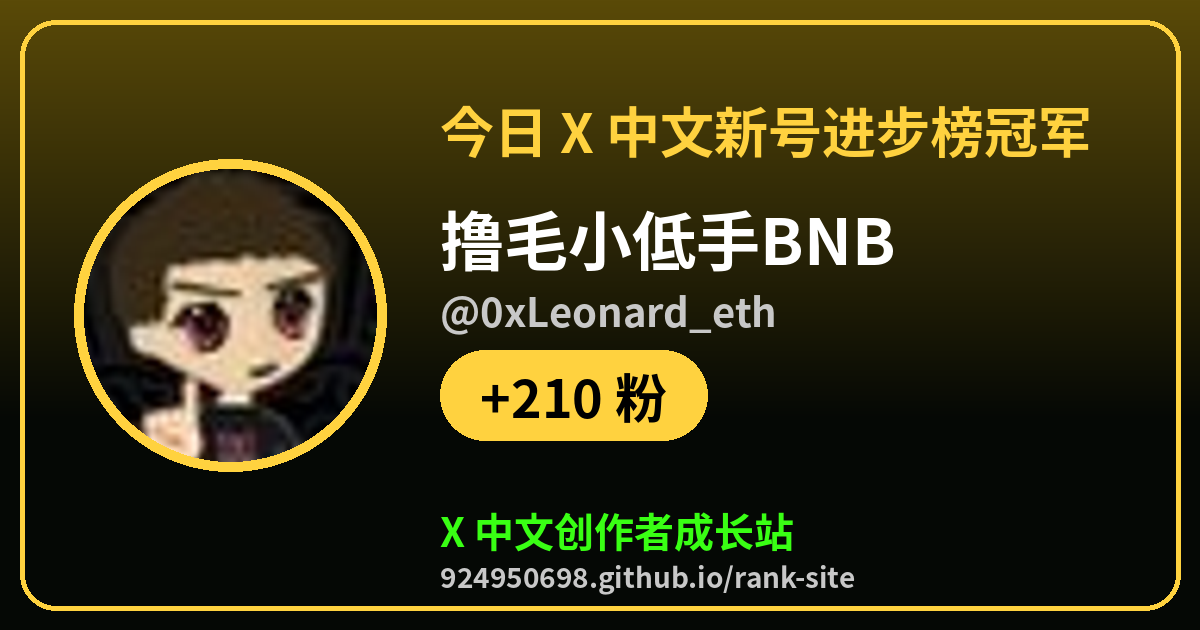
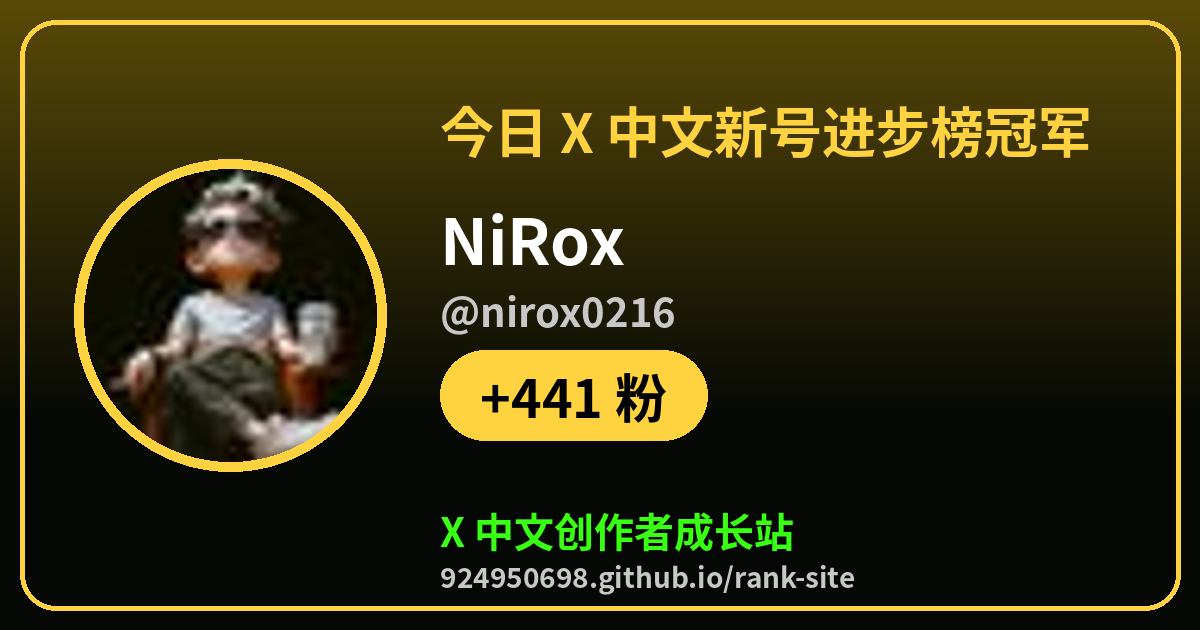
champ: 2026-10-18 00:21 CST

Changed region(s): [[0.0617, 0.2714, 0.3083, 0.754], [0.37, 0.3317, 0.74, 0.5429], [0.4008, 0.6032, 0.5242, 0.6635]]

diff --git a/champ/rising.html b/champ/rising.html
@@ -1,7 +1,7 @@
 <!doctype html><html lang="zh-CN"><head><meta charset="utf-8"><meta name="viewport" content="width=device-width,initial-scale=1">
-<title>今日 X 中文新号进步榜冠军：撸毛小低手🔸BNB（@0xLeonard_eth）</title><meta name="description" content="+210 粉，来看看今天谁在爆，你排第几">
-<meta property="og:type" content="website"><meta property="og:url" content="https://924950698.github.io/rank-site/champ/rising.html"><meta property="og:title" content="今日 X 中文新号进步榜冠军：撸毛小低手🔸BNB（@0xLeonard_eth）"><meta property="og:description" content="+210 粉，来看看今天谁在爆，你排第几">
-<meta property="og:image" content="https://924950698.github.io/rank-site/champ/rising.png?v=20261017T1511"><meta name="twitter:card" content="summary_large_image"><meta name="twitter:site" content="@tigerr3aue">
-<meta name="twitter:title" content="今日 X 中文新号进步榜冠军：撸毛小低手🔸BNB（@0xLeonard_eth）"><meta name="twitter:description" content="+210 粉，来看看今天谁在爆，你排第几"><meta name="twitter:image" content="https://924950698.github.io/rank-site/champ/rising.png?v=20261017T1511">
-<meta http-equiv="refresh" content="0;url=https://924950698.github.io/rank-site/?champ=0xLeonard_eth&amp;board=rising#rank"><script>location.replace("https://924950698.github.io/rank-site/?champ=0xLeonard_eth&board=rising#rank")</script></head>
-<body style="background:#000;color:#fff;font-family:sans-serif;text-align:center;padding:40px"><a href="https://924950698.github.io/rank-site/?champ=0xLeonard_eth&amp;board=rising#rank" style="color:#39ff14">去 X 中文创作者成长站看冠军卡片</a></body></html>
+<title>今日 X 中文新号进步榜冠军：NiRox（@nirox0216）</title><meta name="description" content="+441 粉，来看看今天谁在爆，你排第几">
+<meta property="og:type" content="website"><meta property="og:url" content="https://924950698.github.io/rank-site/champ/rising.html"><meta property="og:title" content="今日 X 中文新号进步榜冠军：NiRox（@nirox0216）"><meta property="og:description" content="+441 粉，来看看今天谁在爆，你排第几">
+<meta property="og:image" content="https://924950698.github.io/rank-site/champ/rising.png?v=20261017T1608"><meta name="twitter:card" content="summary_large_image"><meta name="twitter:site" content="@tigerr3aue">
+<meta name="twitter:title" content="今日 X 中文新号进步榜冠军：NiRox（@nirox0216）"><meta name="twitter:description" content="+441 粉，来看看今天谁在爆，你排第几"><meta name="twitter:image" content="https://924950698.github.io/rank-site/champ/rising.png?v=20261017T1608">
+<meta http-equiv="refresh" content="0;url=https://924950698.github.io/rank-site/?champ=nirox0216&amp;board=rising#rank"><script>location.replace("https://924950698.github.io/rank-site/?champ=nirox0216&board=rising#rank")</script></head>
+<body style="background:#000;color:#fff;font-family:sans-serif;text-align:center;padding:40px"><a href="https://924950698.github.io/rank-site/?champ=nirox0216&amp;board=rising#rank" style="color:#39ff14">去 X 中文创作者成长站看冠军卡片</a></body></html>

diff --git a/champ/comments.html b/champ/comments.html
@@ -1,7 +1,7 @@
 <!doctype html><html lang="zh-CN"><head><meta charset="utf-8"><meta name="viewport" content="width=device-width,initial-scale=1">
-<title>今日 X 中文评论榜冠军：鲁与班|Bird🕊（@luyuban69）</title><meta name="description" content="110 评论，来看看今天谁在爆，你排第几">
-<meta property="og:type" content="website"><meta property="og:url" content="https://924950698.github.io/rank-site/champ/comments.html"><meta property="og:title" content="今日 X 中文评论榜冠军：鲁与班|Bird🕊（@luyuban69）"><meta property="og:description" content="110 评论，来看看今天谁在爆，你排第几">
-<meta property="og:image" content="https://924950698.github.io/rank-site/champ/comments.png?v=20261017T1511"><meta name="twitter:card" content="summary_large_image"><meta name="twitter:site" content="@tigerr3aue">
-<meta name="twitter:title" content="今日 X 中文评论榜冠军：鲁与班|Bird🕊（@luyuban69）"><meta name="twitter:description" content="110 评论，来看看今天谁在爆，你排第几"><meta name="twitter:image" content="https://924950698.github.io/rank-site/champ/comments.png?v=20261017T1511">
+<title>今日 X 中文评论榜冠军：鲁与班|Bird🕊（@luyuban69）</title><meta name="description" content="112 评论，来看看今天谁在爆，你排第几">
+<meta property="og:type" content="website"><meta property="og:url" content="https://924950698.github.io/rank-site/champ/comments.html"><meta property="og:title" content="今日 X 中文评论榜冠军：鲁与班|Bird🕊（@luyuban69）"><meta property="og:description" content="112 评论，来看看今天谁在爆，你排第几">
+<meta property="og:image" content="https://924950698.github.io/rank-site/champ/comments.png?v=20261017T1608"><meta name="twitter:card" content="summary_large_image"><meta name="twitter:site" content="@tigerr3aue">
+<meta name="twitter:title" content="今日 X 中文评论榜冠军：鲁与班|Bird🕊（@luyuban69）"><meta name="twitter:description" content="112 评论，来看看今天谁在爆，你排第几"><meta name="twitter:image" content="https://924950698.github.io/rank-site/champ/comments.png?v=20261017T1608">
 <meta http-equiv="refresh" content="0;url=https://924950698.github.io/rank-site/?champ=luyuban69&amp;board=comments#rank"><script>location.replace("https://924950698.github.io/rank-site/?champ=luyuban69&board=comments#rank")</script></head>
 <body style="background:#000;color:#fff;font-family:sans-serif;text-align:center;padding:40px"><a href="https://924950698.github.io/rank-site/?champ=luyuban69&amp;board=comments#rank" style="color:#39ff14">去 X 中文创作者成长站看冠军卡片</a></body></html>

diff --git a/champ/growth.html b/champ/growth.html
@@ -1,7 +1,7 @@
 <!doctype html><html lang="zh-CN"><head><meta charset="utf-8"><meta name="viewport" content="width=device-width,initial-scale=1">
-<title>今日 X 中文涨粉榜冠军：NiRox（@nirox0216）</title><meta name="description" content="+414 粉，来看看今天谁在爆，你排第几">
-<meta property="og:type" content="website"><meta property="og:url" content="https://924950698.github.io/rank-site/champ/growth.html"><meta property="og:title" content="今日 X 中文涨粉榜冠军：NiRox（@nirox0216）"><meta property="og:description" content="+414 粉，来看看今天谁在爆，你排第几">
-<meta property="og:image" content="https://924950698.github.io/rank-site/champ/growth.png?v=20261017T1511"><meta name="twitter:card" content="summary_large_image"><meta name="twitter:site" content="@tigerr3aue">
-<meta name="twitter:title" content="今日 X 中文涨粉榜冠军：NiRox（@nirox0216）"><meta name="twitter:description" content="+414 粉，来看看今天谁在爆，你排第几"><meta name="twitter:image" content="https://924950698.github.io/rank-site/champ/growth.png?v=20261017T1511">
+<title>今日 X 中文涨粉榜冠军：NiRox（@nirox0216）</title><meta name="description" content="+441 粉，来看看今天谁在爆，你排第几">
+<meta property="og:type" content="website"><meta property="og:url" content="https://924950698.github.io/rank-site/champ/growth.html"><meta property="og:title" content="今日 X 中文涨粉榜冠军：NiRox（@nirox0216）"><meta property="og:description" content="+441 粉，来看看今天谁在爆，你排第几">
+<meta property="og:image" content="https://924950698.github.io/rank-site/champ/growth.png?v=20261017T1608"><meta name="twitter:card" content="summary_large_image"><meta name="twitter:site" content="@tigerr3aue">
+<meta name="twitter:title" content="今日 X 中文涨粉榜冠军：NiRox（@nirox0216）"><meta name="twitter:description" content="+441 粉，来看看今天谁在爆，你排第几"><meta name="twitter:image" content="https://924950698.github.io/rank-site/champ/growth.png?v=20261017T1608">
 <meta http-equiv="refresh" content="0;url=https://924950698.github.io/rank-site/?champ=nirox0216&amp;board=growth#rank"><script>location.replace("https://924950698.github.io/rank-site/?champ=nirox0216&board=growth#rank")</script></head>
 <body style="background:#000;color:#fff;font-family:sans-serif;text-align:center;padding:40px"><a href="https://924950698.github.io/rank-site/?champ=nirox0216&amp;board=growth#rank" style="color:#39ff14">去 X 中文创作者成长站看冠军卡片</a></body></html>

diff --git a/champ/exposure.html b/champ/exposure.html
@@ -1,7 +1,7 @@
 <!doctype html><html lang="zh-CN"><head><meta charset="utf-8"><meta name="viewport" content="width=device-width,initial-scale=1">
 <title>今日 X 中文曝光榜冠军：RamenPanda（@IamRamenPanda）</title><meta name="description" content="2.7万 曝光，来看看今天谁在爆，你排第几">
 <meta property="og:type" content="website"><meta property="og:url" content="https://924950698.github.io/rank-site/champ/exposure.html"><meta property="og:title" content="今日 X 中文曝光榜冠军：RamenPanda（@IamRamenPanda）"><meta property="og:description" content="2.7万 曝光，来看看今天谁在爆，你排第几">
-<meta property="og:image" content="https://924950698.github.io/rank-site/champ/exposure.png?v=20261017T1511"><meta name="twitter:card" content="summary_large_image"><meta name="twitter:site" content="@tigerr3aue">
-<meta name="twitter:title" content="今日 X 中文曝光榜冠军：RamenPanda（@IamRamenPanda）"><meta name="twitter:description" content="2.7万 曝光，来看看今天谁在爆，你排第几"><meta name="twitter:image" content="https://924950698.github.io/rank-site/champ/exposure.png?v=20261017T1511">
+<meta property="og:image" content="https://924950698.github.io/rank-site/champ/exposure.png?v=20261017T1608"><meta name="twitter:card" content="summary_large_image"><meta name="twitter:site" content="@tigerr3aue">
+<meta name="twitter:title" content="今日 X 中文曝光榜冠军：RamenPanda（@IamRamenPanda）"><meta name="twitter:description" content="2.7万 曝光，来看看今天谁在爆，你排第几"><meta name="twitter:image" content="https://924950698.github.io/rank-site/champ/exposure.png?v=20261017T1608">
 <meta http-equiv="refresh" content="0;url=https://924950698.github.io/rank-site/?champ=IamRamenPanda&amp;board=exposure#rank"><script>location.replace("https://924950698.github.io/rank-site/?champ=IamRamenPanda&board=exposure#rank")</script></head>
 <body style="background:#000;color:#fff;font-family:sans-serif;text-align:center;padding:40px"><a href="https://924950698.github.io/rank-site/?champ=IamRamenPanda&amp;board=exposure#rank" style="color:#39ff14">去 X 中文创作者成长站看冠军卡片</a></body></html>
